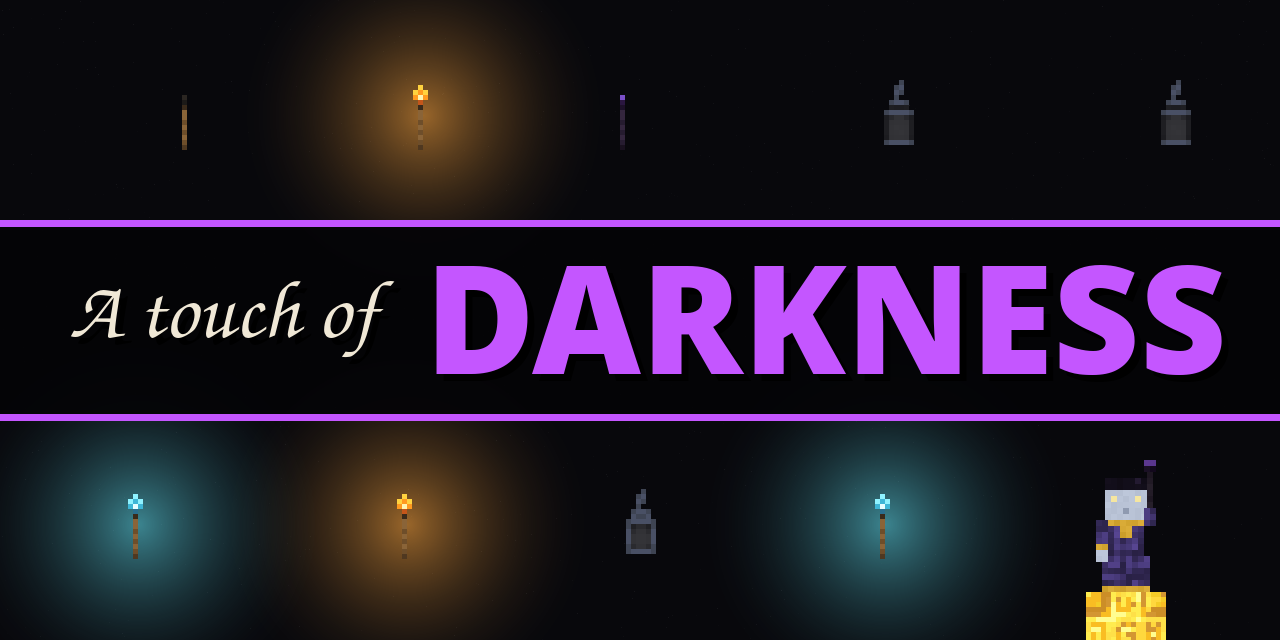
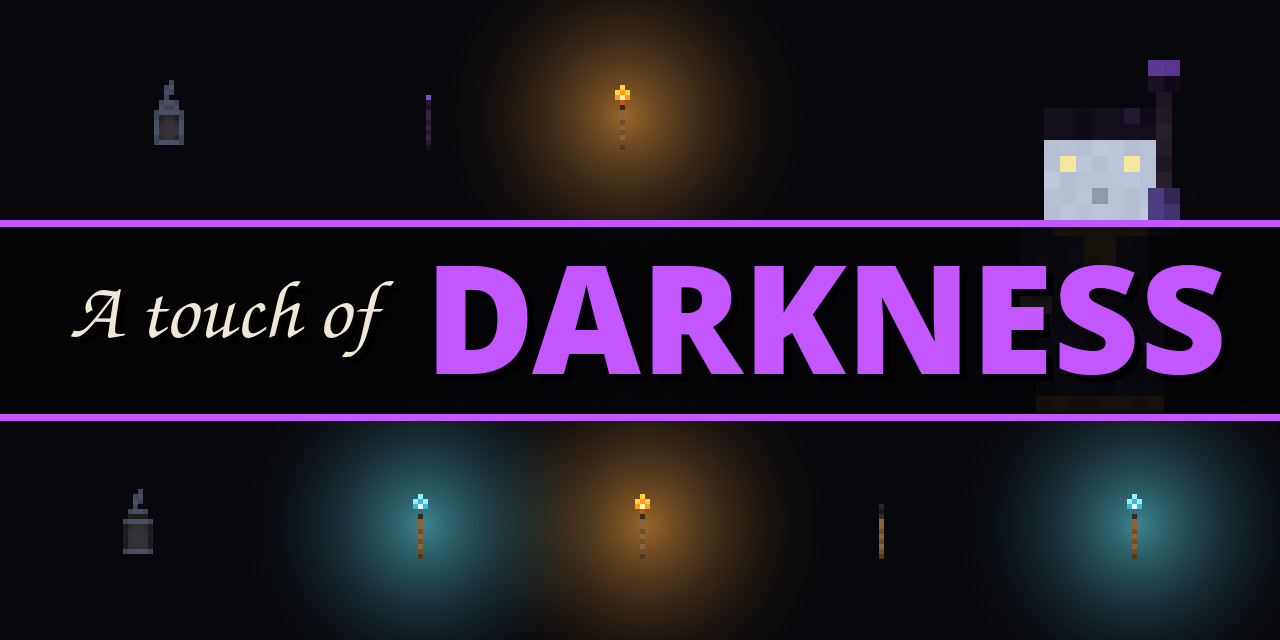
docs: enlarge the lampad and set her peering over the title

diff --git a/publish/make-cover.py b/publish/make-cover.py
@@ -1,9 +1,9 @@
 # SPDX-FileCopyrightText: 2026 5thlayer
 # SPDX-License-Identifier: MIT
 
-# Temporary cover and icon, the Lampad on her Votive among the lights, in the -works suite's style
+# Temporary cover and icon, the Lampad peering over the title among the lights, in the -works suite's style
 # (Voidworks' make-cover.py), until an in-game screenshot or an artist's art replaces them. They carry
-# Malcolm Riley's art through the Votive and the Lampad (NOTICE). Run from the repo root with Pillow
+# Malcolm Riley's art through the Lampad (NOTICE). Run from the repo root with Pillow
 # installed.
 import math
 import os
@@ -42,11 +42,6 @@ def lampad(u):
     return im.resize((12 * u, 23 * u), Image.NEAREST)
 
 
-def votive(px):
-    return Image.open('src/main/resources/assets/atouchofdarkness/textures/block/votive_side.png').convert(
-        'RGBA').resize((px, px), Image.NEAREST)
-
-
 def glow(rgb, r):
     # a pool of light that falls off to nothing, as the Dark closes in around it
     im = Image.new('RGBA', (2 * r, 2 * r))
@@ -58,8 +53,9 @@ def glow(rgb, r):
     return im
 
 
-def field(W, H, px, seed):
-    # the Dark, with a few lights scattered through it, kept clear of the title band
+def field(W, H, px, seed, clear):
+    # the Dark, with a few lights scattered through it, kept clear of the title band and, above it, of
+    # the Lampad between the fractions of the width in clear
     rng = random.Random(seed)
     img = Image.new('RGBA', (W, H), BG + (255,))
     d = ImageDraw.Draw(img)
@@ -67,7 +63,8 @@ def field(W, H, px, seed):
         v = rng.randrange(10, 22)
         x, y = rng.randrange(W), rng.randrange(H)
         d.point((x, y), fill=(v, v, v + 4))
-    slots = [(x, y) for y in (0.18, 0.82) for x in (0.12, 0.31, 0.5, 0.69, 0.88)][:-1]
+    slots = [(x, y) for y in (0.18, 0.82) for x in (0.12, 0.31, 0.5, 0.69, 0.88)
+             if y > 0.5 or not clear[0] <= x <= clear[1]]
     rng.shuffle(slots)
     for (fx, fy), (name, rgb) in zip(slots, LIGHTS * 2):
         cx, cy = int(fx * W + rng.uniform(-0.04, 0.04) * W), int(fy * H)
@@ -76,12 +73,15 @@ def field(W, H, px, seed):
             img.alpha_composite(g, (cx - g.width // 2, cy - g.height // 2))
         s = sprite(name, px)
         img.alpha_composite(s, (cx - px // 2, cy - px // 2))
-    # the Lampad on her Votive, in the last slot, the Votive sunk into the bottom edge to give her room
-    v, l = votive(px), lampad(px * 6 // 80)
-    vx, vy = int(0.88 * W) - px // 2, H - px * 3 // 5
-    img.alpha_composite(v, (vx, vy))
-    img.alpha_composite(l, (vx + (px - l.width) // 2, vy - l.height))
     return img
+
+
+def stand(img, cx, top, bottom, margin):
+    # the Lampad behind the band from top to bottom: as large as her head and raised Torch fit above
+    # it, the 10 units above her neck, so she peers over it, and no larger than the band hides the rest
+    u = min((top - margin) // 10, (bottom - top) // 12)
+    l = lampad(u)
+    img.alpha_composite(l, (cx - l.width // 2, top + 12 * u - l.height))
 
 
 def font(names, size):
@@ -91,9 +91,10 @@ def font(names, size):
     raise SystemExit('needs one of ' + ', '.join(names))
 
 
-def make(W, H, out, title_size, px, stacked=False):
-    # stacked puts the pill above the word, for the square icon
-    img = field(W, H, px, 7)
+def make(W, H, out, title_size, px, lampad_x, stacked=False):
+    # stacked puts "A touch of" above the word, for the square icon; lampad_x is where the Lampad
+    # stands, a fraction of the width
+    img = field(W, H, px, 7, (lampad_x - 0.2, lampad_x + 0.2))
     f1 = font(['/System/Library/Fonts/Supplemental/Impact.ttf', '/usr/share/fonts/TTF/impact.ttf',
                os.path.expanduser('~/.local/share/fonts/msfonts/impact.ttf'),
                '/usr/share/fonts/noto/NotoSans-Black.ttf'], title_size)
@@ -108,6 +109,7 @@ def make(W, H, out, title_size, px, stacked=False):
     bw, ph = w2 + 2 * gap, (h2 + 2 * pad if stacked else h1)
     th = ph + gap + h1 if stacked else h1
     cy, bh = H // 2, int(th + title_size * 0.6)
+    stand(img, int(lampad_x * W), cy - bh // 2, cy + bh // 2, H // 50)
     band = Image.new('RGBA', (W, H), (0, 0, 0, 0))
     ImageDraw.Draw(band).rectangle([0, cy - bh // 2, W, cy + bh // 2], fill=(4, 4, 6, 235))
     img = Image.alpha_composite(img, band)
@@ -130,5 +132,5 @@ def make(W, H, out, title_size, px, stacked=False):
     img.convert('RGB').save(out)
 
 
-make(1280, 640, 'publish/atouchofdarkness-cover.png', 150, 80)
-make(512, 512, 'publish/atouchofdarkness-icon.png', 84, 56, stacked=True)
+make(1280, 640, 'publish/atouchofdarkness-cover.png', 150, 80, 0.86)
+make(512, 512, 'publish/atouchofdarkness-icon.png', 84, 56, 0.5, stacked=True)
